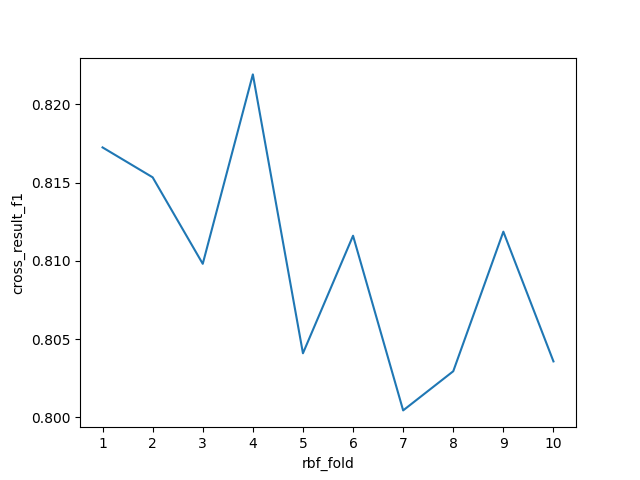
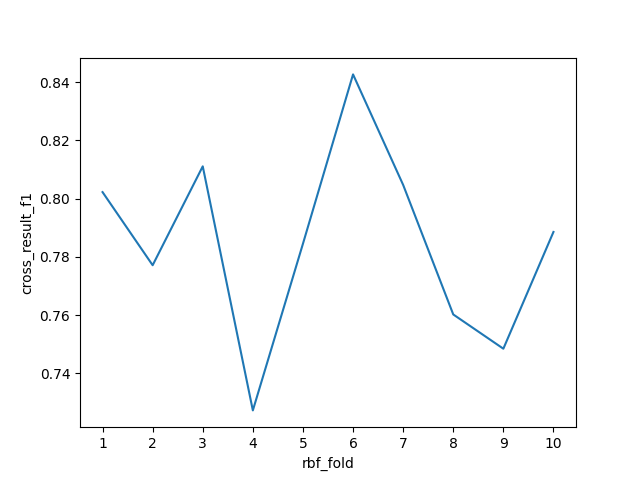
implement parameter comparing -implement gridsearchCV to find best parameter combination in svm -only find parameter in svm and use the best in main

diff --git a/SVM.py b/SVM.py
@@ -8,13 +8,14 @@ from sklearn.preprocessing import OneHotEncoder
 from sklearn.svm import SVC
 import plot
 from sklearn.utils import shuffle
+from sklearn.model_selection import GridSearchCV
 
 import database as db
 
 
 # train SVM  //rbf>linear>poly>sigmoid
-def SVM_train(X_train, y_train, X_test, y_test, kernel: str,cv):
-    svm = SVC(kernel=kernel)
+def SVM_train(X_train, y_train, X_test, y_test, C,gamma,kernel: str,cv):
+    svm = SVC(C=C,gamma=gamma,kernel=kernel)
     cross_list = []
     cross_list,cross_average = cross_validation(svm, X_train, y_train, cv, 'f1', cross_list)
     cross_numlist = [i + 1 for i in range(len(cross_list[0]))]
@@ -49,21 +50,46 @@ def svm_fit(X: pandas.DataFrame, portion, cv):
     X_test = scaler.transform(X_test)
 
     kernels = ['linear', 'rbf', 'poly', 'sigmoid']
+    gammas = [10,1,0.1,0.01,0.001]
     FPR, f1s = [], []
 
 
-    for kernel in kernels:
-        fpr, svm_error, cross_result,f1 = SVM_train(X_train, y_train, X_test, y_test, kernel=kernel,cv=cv)
-        #print(fpr, svm_error)
-        FPR.append(fpr)
-        f1s.append(f1)
-    kernel_numlist = [i + 1 for i in range(len(FPR))]
-    plot.draw(kernel_numlist, FPR, kernels, 'SVM', 'kernel', 'FPR')
-    plot.draw(kernel_numlist, f1s, kernels, 'SVM', 'kernel', 'f1s')
+    # for kernel in kernels:
+    #     param_grid = {'C': [0.1], 'gamma': [1], 'kernel': [kernel]}
+    #     svc = svm.SVC()
+    #     # 创建GridSearchCV实例
+    #     grid = GridSearchCV(svc, param_grid, refit=True, verbose=2)
+    #     # 使用训练数据拟合GridSearchCV
+    #     grid.fit(X_train, y_train)
+    #     # 打印最优的参数组合
+    #     print(grid.best_params_)
+    #
+    #
+    #     fpr, svm_error, cross_result,f1 = SVM_train(X_train, y_train, X_test, y_test, kernel=kernel,cv=cv)
+    #     #print(fpr, svm_error)
+    #     FPR.append(fpr)
+    #     f1s.append(f1)
+    param_grid = {'C': [0.1,1,10,100], 'gamma': [1,0.1,0.01,0.001], 'kernel': ['linear', 'rbf', 'poly', 'sigmoid']}
+    svc = svm.SVC()
+    # 创建GridSearchCV实例
+    grid = GridSearchCV(svc, param_grid, refit=True, verbose=2)
+    # 使用训练数据拟合GridSearchCV
+    grid.fit(X_train, y_train)
+    # 打印最优的参数组合
+    print(grid.best_params_)
 
-    the_best(FPR, f1s, kernels)
+    fpr, svm_error, cross_result, f1 = SVM_train(X_train, y_train, X_test, y_test,C=grid.best_params_['C'],gamma=grid.best_params_['gamma'],kernel=grid.best_params_['kernel'], cv=cv)
+    #print(fpr, svm_error)
+    # FPR.append(fpr)
+    # f1s.append(f1)
 
-    return FPR, f1s
+    # kernel_numlist = [i + 1 for i in range(len(FPR))]
+    # plot.draw(kernel_numlist, FPR, kernels, 'SVM', 'kernel', 'FPR')
+    # plot.draw(kernel_numlist, f1s, kernels, 'SVM', 'kernel', 'f1s')
+
+    #the_best(FPR, f1s, kernels)
+
+    return fpr, f1
     # accuracy, precision, recall, f1_score = SVM_train(X_train, y_train, X_test, y_test)
 
     # print(
@@ -89,9 +115,10 @@ def cross_validation(model, x, y, cv, score_type: str, cross_result):
 
 if __name__ == "__main__":
     '''For testing purpose only'''
-    X = db.data_lanudry(sample_portion=0.1)
-
-    X_train, X_test = train_test_split(X, test_size=0.3, train_size=0.7)
+    name = 'base.csv'
+    portion=0.8
+    X = db.data_lanudry(0.1,1, name=name)
+    X_train, X_test = train_test_split(X, test_size=1 - portion, train_size=portion)
 
     y_train = X_train['fraud_bool']
     y_test = X_test['fraud_bool']
@@ -102,4 +129,21 @@ if __name__ == "__main__":
     scaler = StandardScaler()
     X_train = scaler.fit_transform(X_train)
     X_test = scaler.transform(X_test)
-    print(SVM_train(X_train, y_train, X_test, y_test, 'linear'))
+
+    kernels = ['linear', 'rbf', 'poly', 'sigmoid']
+    gammas = [10, 1, 0.1, 0.01, 0.001]
+    FPR, f1s = [], []
+
+    param_grid = {'C': [0.1,1,10,100], 'gamma': [1,0.1,0.01,0.001], 'kernel': ['linear', 'rbf', 'poly', 'sigmoid']}
+    svc = svm.SVC()
+    # 创建GridSearchCV实例
+    grid = GridSearchCV(svc, param_grid, refit=True, verbose=2)
+    # 使用训练数据拟合GridSearchCV
+    grid.fit(X_train, y_train)
+    # 打印最优的参数组合
+    print(grid.best_params_)
+
+    # fpr, svm_error, cross_result, f1 = SVM_train(X_train, y_train, X_test, y_test, C=grid.best_params_['C'],
+    #                                              gamma=grid.best_params_['gamma'], kernel=grid.best_params_['kernel'],
+    #                                              cv=cv)
+    #

diff --git a/draft.py b/draft.py
@@ -1,0 +1,27 @@
+from sklearn import datasets
+from sklearn.model_selection import train_test_split
+from sklearn import svm
+from sklearn.model_selection import GridSearchCV
+
+# 加载数据集
+iris = datasets.load_iris()
+X = iris.data
+y = iris.target
+
+# 划分训练集和测试集
+X_train, X_test, y_train, y_test = train_test_split(X, y, test_size=0.2, random_state=42)
+
+# 定义参数网格
+param_grid = {'C': [0.1, 1, 10, 100], 'gamma': [1, 0.1, 0.01, 0.001], 'kernel': ['rbf', 'poly', 'sigmoid']}
+
+# 创建一个SVM分类器实例
+svc = svm.SVC()
+
+# 创建GridSearchCV实例
+grid = GridSearchCV(svc, param_grid, refit=True, verbose=2)
+
+# 使用训练数据拟合GridSearchCV
+grid.fit(X_train, y_train)
+
+# 打印最优的参数组合
+print(grid.best_params_)
